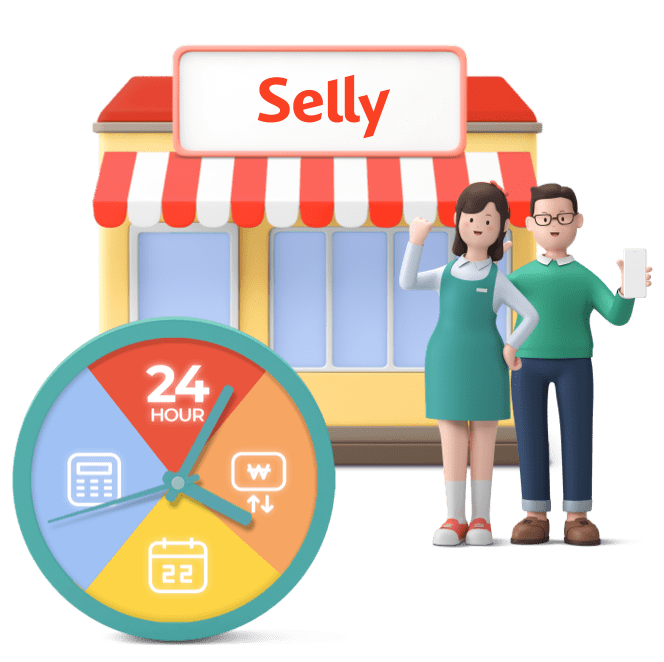
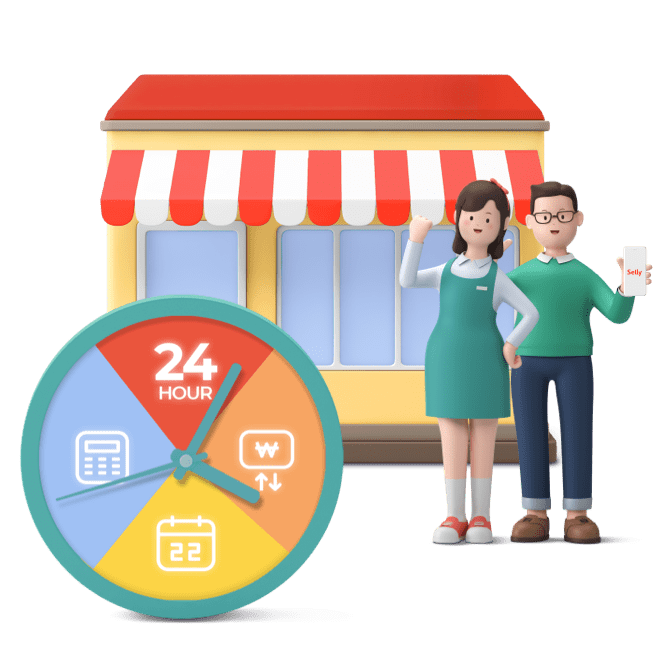
인트로 상단 변경

diff --git a/src/components/login/LoginVisual.scss b/src/components/login/LoginVisual.scss
@@ -1,8 +1,15 @@
 
 .intro-box {
+    .logo {
+        display: block;
+        width: 100px;
+        height: 48px;
+        background: url('/assets/common/logo-selly-beta.png') no-repeat;
+        background-size: 100%;
+    }
     h2,
     h3 {
-        font-size: 26px;
+        font-size: 28px;
         font-weight: 700;
         color: #413a2f;
         line-height: 1.38;
@@ -15,30 +22,36 @@
         margin-top: 12px;
     }
     &.intro01 {
-        height: 636px;
-        padding: 56px 0 0 0;
+        height: 616px;
+        padding: 20px 0 0 0;
         text-align: center;
         background: #f3f0ee url('/assets/intro/img_intro01.png') center bottom
-            38px no-repeat;
-        background-size: auto 331px;
-        ul {
-            display: flex;
-            flex-wrap: wrap;
-            justify-content: space-between;
-            margin-top: 24px;
+            40px no-repeat;
+        background-size: auto 330px;
+        h2 {
+            padding-top: 40px;
+            line-height: 1.29;
         }
-        li {
-            width: calc(50% - 4px);
-            height: 44px;
-            margin-top: 8px;
-            background: #fff;
-            border-radius: 8px;
-            line-height: 44px;
-            color: #6c625a;
-            font-weight: 500;
-            &:nth-child(-n + 2) {
-                margin-top: 0;
+        .tag {
+            margin-top: 10px;
+            div {
+                margin-top: 7px;
+                &:first-of-type {
+                    margin-top: 0;    
+                }
             }
+            span {
+                display: inline-block;
+                color: #6c625a;
+                font-size: 16px;
+                font-weight: 500;
+                &:nth-child(even) {
+                    padding-left: 16px;
+                }
+            }
+        }
+        .intro-inner {
+            padding: 0 20px;
         }
     }
 

diff --git a/src/components/login/LoginVisual.vue b/src/components/login/LoginVisual.vue
@@ -2,13 +2,20 @@
     <div class="logi-visual-box">
         <div class="intro-box intro01">
             <div class="intro-inner">
+                <h1 class="logo">
+                    <span class="ir">Selly beta</span>
+                </h1>
                 <h2>바쁜 사장님을 위한<br />슬기로운 사업관리</h2>
-                <ul>
-                    <li>매출/입금 알림</li>
-                    <li>금융 상품</li>
-                    <li>매장홍보쿠폰</li>
-                    <li>내 주변 매출</li>
-                </ul>
+                <div class="tag">
+                    <div>
+                        <span>#매출/입금 알림</span>
+                        <span>#금융 상품</span>
+                    </div>
+                    <div>
+                        <span>#내 주변 매출</span>
+                        <span>#매장홍보쿠폰</span>
+                    </div>
+                </div>
             </div>
         </div>
 
